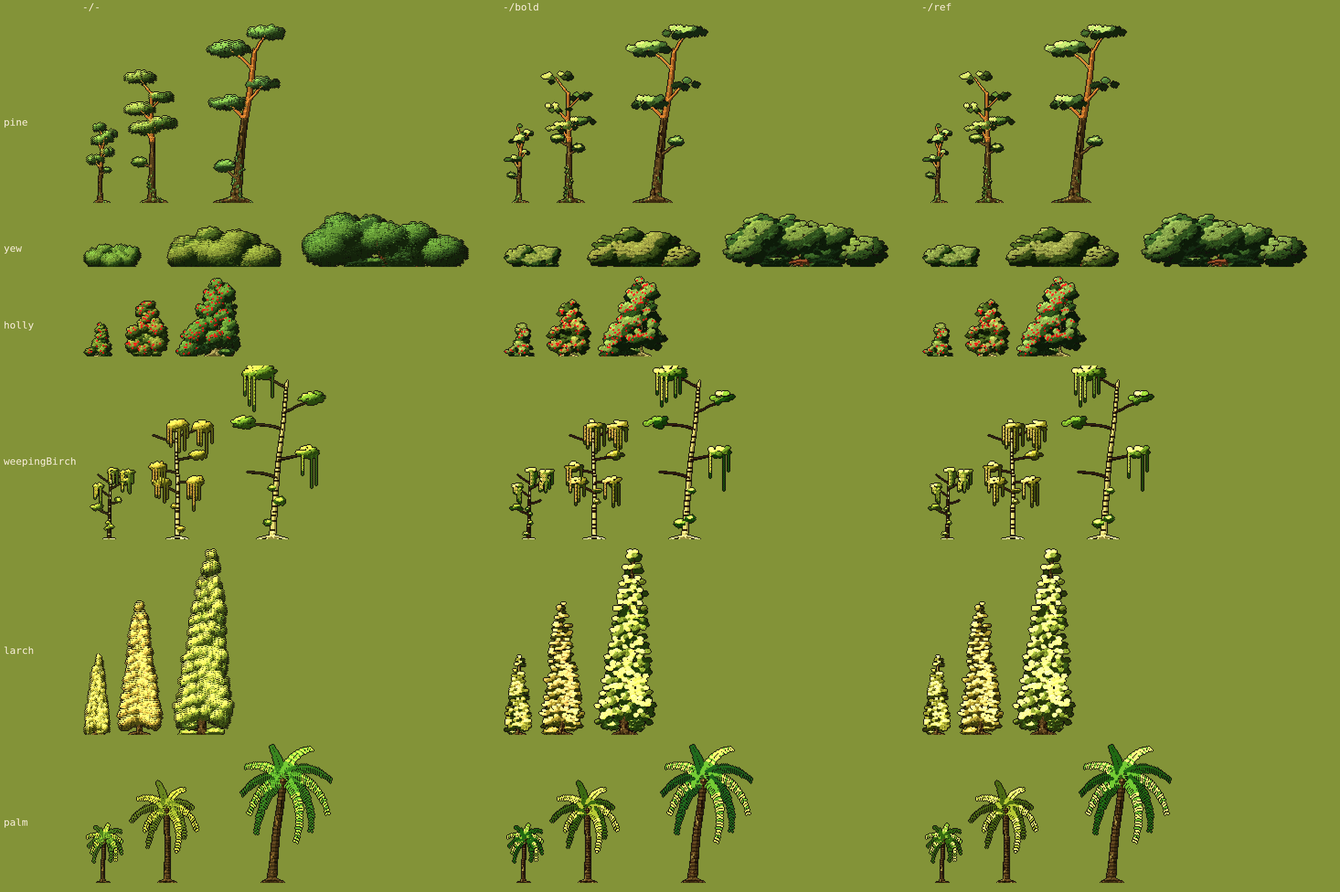
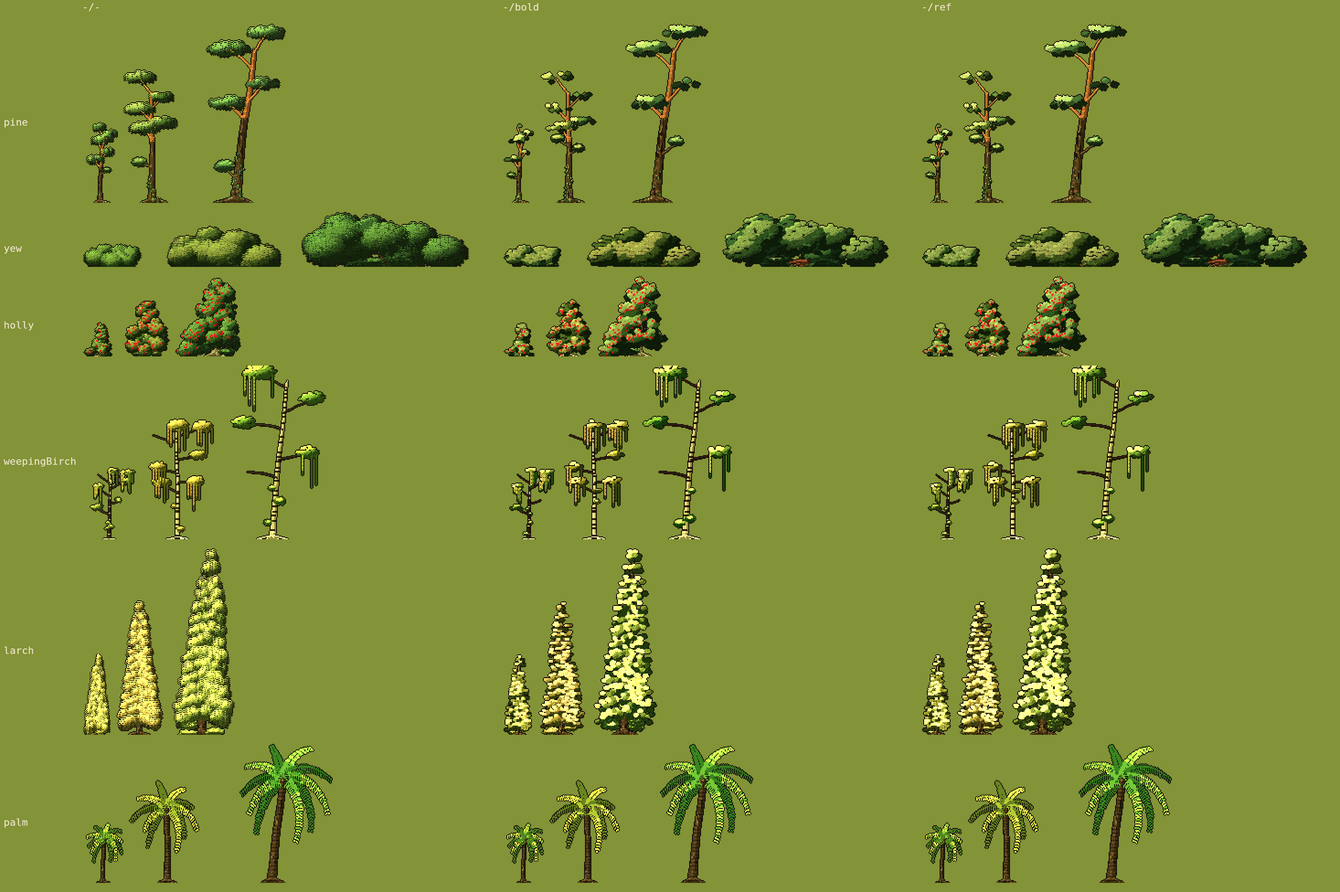
Trees: the shared pixel-art style switch (#127's style.artStyle), not their own
Merge claude/prototype (#127's art/stylise.js and ?style=). The blob trees stylise themselves under style.artStyle bold or ref (their tones, bigger stamps, clusters) and mark their sprites stylised, so bake's post-pass leaves them be; the broadleaf trees take the post-pass. Effects for the new legendLob and legendBeam attacks (the art check failed without them on claude/prototype too).

Claude-Session: https://claude.ai/code/session_01FVGKHvaavDn5xGsWtRTBaz

diff --git a/tools/art-lab/dist/witch-art-lab.html b/tools/art-lab/dist/witch-art-lab.html
@@ -728,7 +728,7 @@ class Sprite {
 // NF the same for the sprite mirrored (facing left).
 function bake(sp, colours, st, outlineMode = st.outline, makeCanvas = defaultCanvas) {
   const { w, h } = sp, mk = () => makeCanvas(w, h), artStyle = st?.artStyle; // artStyle: a pixel-art style (art/stylise.js: the game's ?style=), drawing its own outline
-  if (artStyle === "bold" || artStyle === "ref") outlineMode = "none";
+  if ((artStyle === "bold" || artStyle === "ref") && !sp.stylised) outlineMode = "none";
   const A = mk(), N = mk(), NF = mk(), a = A.getContext("2d").createImageData(w, h), n = N.getContext("2d").createImageData(w, h), nf = NF.getContext("2d").createImageData(w, h);
   const outline = outlineMode === "none" ? null : outlineMode === "dark" ? [22, 18, 30] : "tint";
   for (let y = 0; y < h; y++) for (let x = 0; x < w; x++) {
@@ -749,7 +749,7 @@ function bake(sp, colours, st, outlineMode = st.outline, makeCanvas = defaultCan
     n.data.set([nx * 127 + 128, ny * 127 + 128, nz * 255, 255], o);
     nf.data.set([-nx * 127 + 128, ny * 127 + 128, nz * 255, 255], o);
   }
-  if (artStyle === "bold" || artStyle === "ref") stylisePixels(a.data, n.data, nf.data, w, h, artStyle);
+  if ((artStyle === "bold" || artStyle === "ref") && !sp.stylised) stylisePixels(a.data, n.data, nf.data, w, h, artStyle); // (a sprite its generator drew stylised already, the blob trees, keeps its own tones)
   A.getContext("2d").putImageData(a, 0, 0); N.getContext("2d").putImageData(n, 0, 0); NF.getContext("2d").putImageData(nf, 0, 0);
   return { A, N, NF, w, h };
 }
@@ -999,7 +999,7 @@ function frondCrown(sp, r, st, s, k, top, C, gy) {
       if (j % 2 === 0 && f > .08) { const l = Math.round((1 - f * .7) * (F.leaflet ?? 4) * s), nx = -Math.sin(ang), ny = Math.cos(ang); for (const sd of [-1, 1]) for (let q = 1; q <= l; q++) { put(p[0] + nx * q * sd, p[1] + ny * q * sd + q * .35, m, i + 1); put(p[0] + nx * q * sd, p[1] + ny * q * sd + q * .35 + 1, back ? mats[0] : m, i + 1); } }
     }
   }
-  if (st.stylise) clusterLeaves(sp);
+  if (st.artStyle === "bold" || st.artStyle === "ref") { clusterLeaves(sp); sp.stylised = st.artStyle; }
   return trim(sp, sp.w / 2, Math.min(gy - 6 * s, top[1] + 6 * s));
 }
 
@@ -1054,8 +1054,8 @@ function blobTree(r, st, s, P) {
   const list = C.fill ? fillBlobs(r, s, k, top, C, gy, trunks0[0]) : blobs.map(t => { const big = t === top ? (C.topBig || 1) : 1, rx = uni(r, ...C.r) * s * (C.spreadK === false ? 1 : .75 + .25 * k) * big; return { c: add(t, [uni(r, -2, 2) * s, -(C.lift ?? 3) * s]), rx, ry: rx * (C.flat ?? .8), back: r() < (C.back ?? .3) }; });
   if (C.twigs) byAng.forEach((t, j) => { if (!used.has(j) && t !== top) { const rx = C.r[0] * s * C.twigs; list.push({ c: add(t, [0, -s]), rx, ry: rx * (C.flat ?? .8), back: true }); } });
   list.sort((a, b) => (a.back !== b.back ? (a.back ? -1 : 1) : a.c[1] - b.c[1])); // the back blobs first, then top down: the lower ones in front
-  // stylised (st.stylise, docs/ART-GUIDE.md section 0): bigger, fewer stamps, each one tone, lit as one big shape with no jitter, then clustered
-  const sty = !!st.stylise, ss = Math.max(sty ? 2.5 : 1.5, (C.stampSize || 3) * s * (sty ? 1.5 : 1)), kind = sty && C.stamp === "needle" ? "leaf" : C.stamp || "leaf", [t1, t2] = C.tones || [.12, .55], mats = (C.mats || ["LEAF3", "LEAF", "LEAF2"]).map(matOf);
+  // stylised (st.artStyle bold or ref, the game's ?style=; docs/ART-GUIDE.md section 0): bigger, fewer stamps, each one tone, lit as one big shape with no jitter, then clustered
+  const sty = st.artStyle === "bold" || st.artStyle === "ref", ss = Math.max(sty ? 2.5 : 1.5, (C.stampSize || 3) * s * (sty ? 1.5 : 1)), kind = sty && C.stamp === "needle" ? "leaf" : C.stamp || "leaf", [t1, t2] = C.tones || [.12, .55], mats = (C.mats || ["LEAF3", "LEAF", "LEAF2"]).map(matOf);
   const seed = (r() * 1e4) | 0, cap = !!C.cap, blobOf = sp.blob = new Uint8Array(W * H); // which blob each pixel is part of (the pixel wind moves each whole)
   const put = (x, y, mat, nx, ny, nz, b) => { x = Math.floor(x); y = Math.floor(y); if (!sp.inb(x, y)) return; sp.px(x, y, mat, nx, ny, nz); blobOf[y * W + x] = b; };
   for (const [bi, B] of list.entries()) {
@@ -1085,7 +1085,7 @@ function blobTree(r, st, s, P) {
       }
     }
   }
-  if (sty) clusterLeaves(sp); // no lone leaf pixels: each tone in clusters
+  if (sty) { clusterLeaves(sp); sp.stylised = st.artStyle; } // no lone leaf pixels: each tone in clusters; bake leaves its tones be
   // dots (blossom, fruit, glowing spots) on the leaves, the lit side more; glints on the lit leaves
   let cx0 = W, cx1 = 0, cy0 = H, cy1 = 0;
   for (const { c, rx, ry } of list) { cx0 = Math.min(cx0, c[0] - rx - ss); cx1 = Math.max(cx1, c[0] + rx + ss); cy0 = Math.min(cy0, c[1] - ry - ss); cy1 = Math.max(cy1, c[1] + ry + ss); }
@@ -1221,6 +1221,7 @@ function trim(sp, bx, crownY) {
     out.m[j] = sp.m[i]; out.g[j] = sp.g[i]; out.n[j * 3] = sp.n[i * 3]; out.n[j * 3 + 1] = sp.n[i * 3 + 1]; out.n[j * 3 + 2] = sp.n[i * 3 + 2];
     if (sp.blob) (out.blob || (out.blob = new Uint8Array(w * h)))[j] = sp.blob[i]; // the genome generator's blobs, for the pixel wind
   }
+  if (sp.stylised) out.stylised = sp.stylised;
   return { sp: out, crownY: crownY - ny0 };
 }
 const spread = st => (st.crownWidth || 3) / 3;
@@ -1364,7 +1365,7 @@ const TREE_SPECIES = {};
 for (const [id, g] of Object.entries(PLANT_GENOMES)) {
   if (g.species === false) continue; // only a TREE_TYPES kind (the tree fern), never an area's species
   const bare = genomeTree(id, g);
-  TREE_SPECIES[id] = { fn: (r, st, s) => lowLife(bare(r, st, s), r, st, s, g.low || {}), bare, name: g.name, grow: g.grow, ...g.colour }; // every species' trees carry their life below the crown; bare draws without it
+  TREE_SPECIES[id] = { fn: (r, st, s) => lowLife(bare(r, st, s), r, st, s, g.low || {}), bare, name: g.name, grow: g.grow, blob: g.generator === "blob", ...g.colour }; // every species' trees carry their life below the crown; bare draws without it
 }
 // The species a flora preview names (the game's ?flora=, the lab): "new" the genome generator's species, "fantasy" its fantasy
 // ones, "all" every species, or a comma list of ids; unknown ids are left out.
@@ -1414,9 +1415,9 @@ function treeColours(r, st, type) {
     [M.TRUNK]: hsv2rgb(st.trunkHue, .45 * st.sat, .34), [M.BARKD]: hsv2rgb(st.trunkHue + .03, .5 * st.sat, .17), [M.BARKL]: hsv2rgb(st.trunkHue - .01, .38 * st.sat, .5), [M.BARK2]: [222, 220, 212],
     [M.LEAF]: hsv2rgb(h, Math.min(1, .62 * st.sat * sa), Math.min(1, .58 * va)), [M.LEAF2]: hsv2rgb(h - .05, Math.min(1, .55 * st.sat * sa), Math.min(1, .8 * va)), [M.LEAF3]: hsv2rgb(h + .03, Math.min(1, .66 * st.sat * sa), .38 * va), [M.WEB]: [225, 225, 232],
   };
-  if (st.stylise) { // the pixel-art ramp (docs/ART-GUIDE.md section 0): 3 hue-shifted tones per material, the shadow deeper, more saturated and
+  if (st.artStyle && S?.blob) { // the pixel-art ramp (the blob generator's trees; bake's post-pass does the rest) (docs/ART-GUIDE.md section 0): 3 hue-shifted tones per material, the shadow deeper, more saturated and
     // towards blue-violet, the light pale and towards cream; "ref" (Ed's reference, rung 6) keeps one tone family, "bold" (rung 3/4) shifts further
-    const ref = st.stylise === "ref", ls = Math.min(1, .62 * st.sat * sa), lv = Math.min(1, .58 * va);
+    const ref = st.artStyle === "ref", ls = Math.min(1, .62 * st.sat * sa), lv = Math.min(1, .58 * va);
     c[M.LEAF3] = hsv2rgb(h + (ref ? .035 : .07), Math.min(1, ls * 1.25), lv * .52);
     c[M.LEAF2] = hsv2rgb(h - (ref ? .045 : .08), ls * (ref ? .5 : .62), Math.min(1, lv * 1.5));
     c[M.BARKD] = hsv2rgb(st.trunkHue - (ref ? .02 : .04), Math.min(1, .6 * st.sat), .15); // bark's shadow towards red-brown
@@ -1439,6 +1440,7 @@ function splitTree(t) { // bottom = wood below the crown line and the life on it
     dst.put(x, y, m, sp.n[i * 3], sp.n[i * 3 + 1], sp.n[i * 3 + 2]);
     if (sp.blob?.[i]) (dst.blob || (dst.blob = new Uint8Array(sp.w * sp.h)))[i] = sp.blob[i];
   }
+  if (sp.stylised) top.stylised = bot.stylised = sp.stylised; // drawn stylised already: bake leaves it be
   return { top, bot };
 }
 
@@ -5289,6 +5291,9 @@ const ATTACK_EFFECTS = {
   // a lunging swipe that knocks back (the claws' melee), the big one harder
   swipe: { windup: "windupFlash", telegraph: ["lineStart", "line", "lineEnd"], hit: "hitSpark", status: ["knockback"] },
   bigswipe: { windup: "windupFlash", telegraph: ["lineStart", "line", "lineEnd"], hit: "hitSparkBig", status: ["knockback", "dust"] },
+  // a woken legend's ranged attacks: a great lob onto a target circle, a long sweeping beam
+  legendLob: { windup: "windupFlash", telegraph: ["targetCircle"], projectile: "lobSeed", shadow: "lobShadow", hit: "hitSparkBig" },
+  legendBeam: { windup: "windupFlash", telegraph: ["lineStart", "line", "lineEnd"], beam: ["beamLongStart", "beamLongLoop", "beamLongEnd"], hit: "hitSpark" },
   spit: { windup: "windupFlash", telegraph: ["lineStart", "line", "lineEnd"], projectile: "spit", hit: "hitSpark" },
   longspit: { windup: "windupFlash", telegraph: ["lineStart", "line", "lineEnd"], projectile: "feather", hit: "hitSpark" },
   barb: { windup: "windupFlash", telegraph: ["lineStart", "line", "lineEnd"], projectile: "barb", hit: "hitSpark", status: ["slowRing", "slowMark"] },

diff --git a/art/trees.js b/art/trees.js
@@ -99,6 +99,7 @@ export function trim(sp, bx, crownY) {
     out.m[j] = sp.m[i]; out.g[j] = sp.g[i]; out.n[j * 3] = sp.n[i * 3]; out.n[j * 3 + 1] = sp.n[i * 3 + 1]; out.n[j * 3 + 2] = sp.n[i * 3 + 2];
     if (sp.blob) (out.blob || (out.blob = new Uint8Array(w * h)))[j] = sp.blob[i]; // the genome generator's blobs, for the pixel wind
   }
+  if (sp.stylised) out.stylised = sp.stylised;
   return { sp: out, crownY: crownY - ny0 };
 }
 export const spread = st => (st.crownWidth || 3) / 3;
@@ -242,7 +243,7 @@ export const TREE_SPECIES = {};
 for (const [id, g] of Object.entries(PLANT_GENOMES)) {
   if (g.species === false) continue; // only a TREE_TYPES kind (the tree fern), never an area's species
   const bare = genomeTree(id, g);
-  TREE_SPECIES[id] = { fn: (r, st, s) => lowLife(bare(r, st, s), r, st, s, g.low || {}), bare, name: g.name, grow: g.grow, ...g.colour }; // every species' trees carry their life below the crown; bare draws without it
+  TREE_SPECIES[id] = { fn: (r, st, s) => lowLife(bare(r, st, s), r, st, s, g.low || {}), bare, name: g.name, grow: g.grow, blob: g.generator === "blob", ...g.colour }; // every species' trees carry their life below the crown; bare draws without it
 }
 // The species a flora preview names (the game's ?flora=, the lab): "new" the genome generator's species, "fantasy" its fantasy
 // ones, "all" every species, or a comma list of ids; unknown ids are left out.
@@ -292,9 +293,9 @@ export function treeColours(r, st, type) {
     [M.TRUNK]: hsv2rgb(st.trunkHue, .45 * st.sat, .34), [M.BARKD]: hsv2rgb(st.trunkHue + .03, .5 * st.sat, .17), [M.BARKL]: hsv2rgb(st.trunkHue - .01, .38 * st.sat, .5), [M.BARK2]: [222, 220, 212],
     [M.LEAF]: hsv2rgb(h, Math.min(1, .62 * st.sat * sa), Math.min(1, .58 * va)), [M.LEAF2]: hsv2rgb(h - .05, Math.min(1, .55 * st.sat * sa), Math.min(1, .8 * va)), [M.LEAF3]: hsv2rgb(h + .03, Math.min(1, .66 * st.sat * sa), .38 * va), [M.WEB]: [225, 225, 232],
   };
-  if (st.stylise) { // the pixel-art ramp (docs/ART-GUIDE.md section 0): 3 hue-shifted tones per material, the shadow deeper, more saturated and
+  if (st.artStyle && S?.blob) { // the pixel-art ramp (the blob generator's trees; bake's post-pass does the rest) (docs/ART-GUIDE.md section 0): 3 hue-shifted tones per material, the shadow deeper, more saturated and
     // towards blue-violet, the light pale and towards cream; "ref" (Ed's reference, rung 6) keeps one tone family, "bold" (rung 3/4) shifts further
-    const ref = st.stylise === "ref", ls = Math.min(1, .62 * st.sat * sa), lv = Math.min(1, .58 * va);
+    const ref = st.artStyle === "ref", ls = Math.min(1, .62 * st.sat * sa), lv = Math.min(1, .58 * va);
     c[M.LEAF3] = hsv2rgb(h + (ref ? .035 : .07), Math.min(1, ls * 1.25), lv * .52);
     c[M.LEAF2] = hsv2rgb(h - (ref ? .045 : .08), ls * (ref ? .5 : .62), Math.min(1, lv * 1.5));
     c[M.BARKD] = hsv2rgb(st.trunkHue - (ref ? .02 : .04), Math.min(1, .6 * st.sat), .15); // bark's shadow towards red-brown
@@ -317,6 +318,7 @@ export function splitTree(t) { // bottom = wood below the crown line and the lif
     dst.put(x, y, m, sp.n[i * 3], sp.n[i * 3 + 1], sp.n[i * 3 + 2]);
     if (sp.blob?.[i]) (dst.blob || (dst.blob = new Uint8Array(sp.w * sp.h)))[i] = sp.blob[i];
   }
+  if (sp.stylised) top.stylised = bot.stylised = sp.stylised; // drawn stylised already: bake leaves it be
   return { top, bot };
 }
 

diff --git a/art/flora/blob.js b/art/flora/blob.js
@@ -85,7 +85,7 @@ function frondCrown(sp, r, st, s, k, top, C, gy) {
       if (j % 2 === 0 && f > .08) { const l = Math.round((1 - f * .7) * (F.leaflet ?? 4) * s), nx = -Math.sin(ang), ny = Math.cos(ang); for (const sd of [-1, 1]) for (let q = 1; q <= l; q++) { put(p[0] + nx * q * sd, p[1] + ny * q * sd + q * .35, m, i + 1); put(p[0] + nx * q * sd, p[1] + ny * q * sd + q * .35 + 1, back ? mats[0] : m, i + 1); } }
     }
   }
-  if (st.stylise) clusterLeaves(sp);
+  if (st.artStyle === "bold" || st.artStyle === "ref") { clusterLeaves(sp); sp.stylised = st.artStyle; }
   return trim(sp, sp.w / 2, Math.min(gy - 6 * s, top[1] + 6 * s));
 }
 
@@ -140,8 +140,8 @@ export function blobTree(r, st, s, P) {
   const list = C.fill ? fillBlobs(r, s, k, top, C, gy, trunks0[0]) : blobs.map(t => { const big = t === top ? (C.topBig || 1) : 1, rx = uni(r, ...C.r) * s * (C.spreadK === false ? 1 : .75 + .25 * k) * big; return { c: add(t, [uni(r, -2, 2) * s, -(C.lift ?? 3) * s]), rx, ry: rx * (C.flat ?? .8), back: r() < (C.back ?? .3) }; });
   if (C.twigs) byAng.forEach((t, j) => { if (!used.has(j) && t !== top) { const rx = C.r[0] * s * C.twigs; list.push({ c: add(t, [0, -s]), rx, ry: rx * (C.flat ?? .8), back: true }); } });
   list.sort((a, b) => (a.back !== b.back ? (a.back ? -1 : 1) : a.c[1] - b.c[1])); // the back blobs first, then top down: the lower ones in front
-  // stylised (st.stylise, docs/ART-GUIDE.md section 0): bigger, fewer stamps, each one tone, lit as one big shape with no jitter, then clustered
-  const sty = !!st.stylise, ss = Math.max(sty ? 2.5 : 1.5, (C.stampSize || 3) * s * (sty ? 1.5 : 1)), kind = sty && C.stamp === "needle" ? "leaf" : C.stamp || "leaf", [t1, t2] = C.tones || [.12, .55], mats = (C.mats || ["LEAF3", "LEAF", "LEAF2"]).map(matOf);
+  // stylised (st.artStyle bold or ref, the game's ?style=; docs/ART-GUIDE.md section 0): bigger, fewer stamps, each one tone, lit as one big shape with no jitter, then clustered
+  const sty = st.artStyle === "bold" || st.artStyle === "ref", ss = Math.max(sty ? 2.5 : 1.5, (C.stampSize || 3) * s * (sty ? 1.5 : 1)), kind = sty && C.stamp === "needle" ? "leaf" : C.stamp || "leaf", [t1, t2] = C.tones || [.12, .55], mats = (C.mats || ["LEAF3", "LEAF", "LEAF2"]).map(matOf);
   const seed = (r() * 1e4) | 0, cap = !!C.cap, blobOf = sp.blob = new Uint8Array(W * H); // which blob each pixel is part of (the pixel wind moves each whole)
   const put = (x, y, mat, nx, ny, nz, b) => { x = Math.floor(x); y = Math.floor(y); if (!sp.inb(x, y)) return; sp.px(x, y, mat, nx, ny, nz); blobOf[y * W + x] = b; };
   for (const [bi, B] of list.entries()) {
@@ -171,7 +171,7 @@ export function blobTree(r, st, s, P) {
       }
     }
   }
-  if (sty) clusterLeaves(sp); // no lone leaf pixels: each tone in clusters
+  if (sty) { clusterLeaves(sp); sp.stylised = st.artStyle; } // no lone leaf pixels: each tone in clusters; bake leaves its tones be
   // dots (blossom, fruit, glowing spots) on the leaves, the lit side more; glints on the lit leaves
   let cx0 = W, cx1 = 0, cy0 = H, cy1 = 0;
   for (const { c, rx, ry } of list) { cx0 = Math.min(cx0, c[0] - rx - ss); cx1 = Math.max(cx1, c[0] + rx + ss); cy0 = Math.min(cy0, c[1] - ry - ss); cy1 = Math.max(cy1, c[1] + ry + ss); }

diff --git a/art/core.js b/art/core.js
@@ -306,7 +306,7 @@ export class Sprite {
 // NF the same for the sprite mirrored (facing left).
 export function bake(sp, colours, st, outlineMode = st.outline, makeCanvas = defaultCanvas) {
   const { w, h } = sp, mk = () => makeCanvas(w, h), artStyle = st?.artStyle; // artStyle: a pixel-art style (art/stylise.js: the game's ?style=), drawing its own outline
-  if (artStyle === "bold" || artStyle === "ref") outlineMode = "none";
+  if ((artStyle === "bold" || artStyle === "ref") && !sp.stylised) outlineMode = "none";
   const A = mk(), N = mk(), NF = mk(), a = A.getContext("2d").createImageData(w, h), n = N.getContext("2d").createImageData(w, h), nf = NF.getContext("2d").createImageData(w, h);
   const outline = outlineMode === "none" ? null : outlineMode === "dark" ? [22, 18, 30] : "tint";
   for (let y = 0; y < h; y++) for (let x = 0; x < w; x++) {
@@ -327,7 +327,7 @@ export function bake(sp, colours, st, outlineMode = st.outline, makeCanvas = def
     n.data.set([nx * 127 + 128, ny * 127 + 128, nz * 255, 255], o);
     nf.data.set([-nx * 127 + 128, ny * 127 + 128, nz * 255, 255], o);
   }
-  if (artStyle === "bold" || artStyle === "ref") stylisePixels(a.data, n.data, nf.data, w, h, artStyle);
+  if ((artStyle === "bold" || artStyle === "ref") && !sp.stylised) stylisePixels(a.data, n.data, nf.data, w, h, artStyle); // (a sprite its generator drew stylised already, the blob trees, keeps its own tones)
   A.getContext("2d").putImageData(a, 0, 0); N.getContext("2d").putImageData(n, 0, 0); NF.getContext("2d").putImageData(nf, 0, 0);
   return { A, N, NF, w, h };
 }

diff --git a/art/effects.js b/art/effects.js
@@ -94,6 +94,9 @@ export const ATTACK_EFFECTS = {
   // a lunging swipe that knocks back (the claws' melee), the big one harder
   swipe: { windup: "windupFlash", telegraph: ["lineStart", "line", "lineEnd"], hit: "hitSpark", status: ["knockback"] },
   bigswipe: { windup: "windupFlash", telegraph: ["lineStart", "line", "lineEnd"], hit: "hitSparkBig", status: ["knockback", "dust"] },
+  // a woken legend's ranged attacks: a great lob onto a target circle, a long sweeping beam
+  legendLob: { windup: "windupFlash", telegraph: ["targetCircle"], projectile: "lobSeed", shadow: "lobShadow", hit: "hitSparkBig" },
+  legendBeam: { windup: "windupFlash", telegraph: ["lineStart", "line", "lineEnd"], beam: ["beamLongStart", "beamLongLoop", "beamLongEnd"], hit: "hitSpark" },
   spit: { windup: "windupFlash", telegraph: ["lineStart", "line", "lineEnd"], projectile: "spit", hit: "hitSpark" },
   longspit: { windup: "windupFlash", telegraph: ["lineStart", "line", "lineEnd"], projectile: "feather", hit: "hitSpark" },
   barb: { windup: "windupFlash", telegraph: ["lineStart", "line", "lineEnd"], projectile: "barb", hit: "hitSpark", status: ["slowRing", "slowMark"] },

diff --git a/src/main.ts b/src/main.ts
@@ -185,7 +185,6 @@ const canvas = document.getElementById("game") as HTMLCanvasElement;
 const style = loadStyle();
 { const artStyle = params.get("style"); if (artStyle === "bold" || artStyle === "ref") style.artStyle = artStyle; } // ?style=now|bold|ref: a pixel-art style (art/stylise.js) baked into every sprite, carried to the art worker in the style
 if (params.get("flora")) style.flora = params.get("flora"); // ?flora=new|fantasy|all|<ids>: every wooded area grows these tree species (art/flora), carried to the art worker in the style
-if (params.get("style") === "bold" || params.get("style") === "ref") style.stylise = params.get("style"); // ?style=bold|ref: the pixel-art stylisation (docs/ART-GUIDE.md section 0; bold: hue-shifted 3-tone ramps, ref: Ed's reference look), so far in the trees: carried to the art worker in the style
 /** Load timings (ms since the page started): the view built (the page's own sprites drawn), ready to play. */
 const loadTimes = { viewStart: performance.now(), view: 0, ready: 0 };
 const view = new View(canvas, game, {

diff --git a/CLAUDE.md b/CLAUDE.md
@@ -81,7 +81,7 @@ Literal, stable names for the parts of the game, as Ed and the builders agree th
 - **Tall pieces**: the sparse, tall things in the open areas without trees (`art/tall.js`): snags in the log pile, cairns and standing stones on the moor, pillars and a tall cairn at the stone shrine, rock spires and a stalagmite in the ravine; `big` entries flagged `sparse` (their share of the area's big objects).
 - **Tree species**: the kinds of tree in `art/trees.js` (`TREE_SPECIES`): the original six and fifteen UK species (oak, beech, ash, lime, sycamore, horse chestnut, rowan, alder, Scots pine, yew, hawthorn, holly, hazel, weeping birch, larch); each area names a main species and often a minor one.
 - **Area flora**: each wooded area type's trees (`AREA_FLORA` in `art/flora/areas.js`): 3 to 6 species with their shares, its main kind first, and its palette (leaf saturation and brightness, times the species' own; the hue is the area's `leaf`); `areaTreeVariants` deals the species into the area's ten tree variants by share (`floraSlots`), each with the area's own tree character. The fantasy species grow only as a minority where magic suits (glowcap in the hazel rings, vinewood in the garden and the holly thicket, the crystal-leaf tree at the cave mouth).
-- **Plant genome**: a tree or bush species as data (`PLANT_GENOMES`, `BUSH_GENOMES` in `art/flora/genomes.js`): its form, the generator that grows it and its params, the style rules it bends, its life below the crown, its colours and its height-class growth. `TREE_SPECIES` and `bush` are grown from them. The **genome generator** (`art/flora/blob.js`, generator `"blob"`) grows a tree from levels of branches (Weber–Penn style) under a crown of 3 to 9 lit **blobs** filled with **leaf stamps** (t3ssel8r style); it draws the ten newer species, three of them fantasy (glowcap, crystal-leaf tree, vinewood), and since #119 the twelve that had bespoke generators (broad, fir, willow, birch, tree fern, field maple, alder, pine, yew, holly, weeping birch, larch), with crowns filled through an envelope (`crown.fill`: tiers, cone, column, dome; `crownLine`), curtains, trunk bands, a pine's orange upper trunk, frond scars and fronds. Only `broadleaf` (nine species) is still its own generator. **Stylisation** (`style.stylise`, `?style=bold|ref`; Ed: "more pixel-art stylised", docs/ART-GUIDE.md section 0): the trees' leaves and bark in 3 hue-shifted tones (shadow towards blue-violet or red-brown, light towards cream; `ref` one tone family), and the blob crowns in bigger, fewer stamps lit with no jitter and clustered (`clusterLeaves`: no lone leaf pixel); off by default. `node tools/flora/species-sheet.mjs <png> <species|all> <set/stylise,...>` draws species side by side. `?flora=new|fantasy|all|<ids>` grows those species in every wooded area (carried to the art worker in the style); the lab's Flora panel shows them.
+- **Plant genome**: a tree or bush species as data (`PLANT_GENOMES`, `BUSH_GENOMES` in `art/flora/genomes.js`): its form, the generator that grows it and its params, the style rules it bends, its life below the crown, its colours and its height-class growth. `TREE_SPECIES` and `bush` are grown from them. The **genome generator** (`art/flora/blob.js`, generator `"blob"`) grows a tree from levels of branches (Weber–Penn style) under a crown of 3 to 9 lit **blobs** filled with **leaf stamps** (t3ssel8r style); it draws the ten newer species, three of them fantasy (glowcap, crystal-leaf tree, vinewood), and since #119 the twelve that had bespoke generators (broad, fir, willow, birch, tree fern, field maple, alder, pine, yew, holly, weeping birch, larch), with crowns filled through an envelope (`crown.fill`: tiers, cone, column, dome; `crownLine`), curtains, trunk bands, a pine's orange upper trunk, frond scars and fronds. Only `broadleaf` (nine species) is still its own generator. Under the pixel-art styles (`style.artStyle`, the game's `?style=bold|ref`, art/stylise.js) the blob trees stylise themselves: leaves and bark in 3 hue-shifted tones (shadow towards blue-violet or red-brown, light towards cream; `ref` one tone family), the crowns in bigger, fewer stamps lit with no jitter and clustered (`clusterLeaves`: no lone leaf pixel), and their sprites marked `stylised` so bake's post-pass leaves their tones be. `node tools/flora/species-sheet.mjs <png> <species|all> <set/stylise,...>` draws species side by side. `?flora=new|fantasy|all|<ids>` grows those species in every wooded area (carried to the art worker in the style); the lab's Flora panel shows them.
 - **Sleeping legend**: an area's legend of its species as it lies asleep for centuries (`art/legends.js`, `legendForm(id, st, { frame, facing })`): half sunk in its area's earth, head down, eyes shut, its glow gone to stone and old wood, mossed and grown over so it passes for a boulder, log or mound, in 2 slow breathing frames at the legend's scale, `origin` the ground under its middle. No waking sequence or awake redraw yet (Ed, 2026-10-04: "just the sleeping form"). Batch 1: bat, marten, elk, stoat, owl, snail; batch 2: wolf, fox, badger, boar, stag, hare, bear; batch 3: lynx, otter, beaver, ram, squirrel, dormouse, salamander; batch 4: toad, raven, mole, hedgehog, woodlouse; batch 5: snake, moth, glow-worm, spider, stag beetle (`LEGEND_POSES`): all 30.
 - **Art style / art pixel**: the pixel-art treatment baked into every sprite (`art/stylise.js`, applied in `bake` when the style's `artStyle` is set): `?style=now|bold|ref` (now: as before; bold: 3 hue-shifted tones per material, clusters, a selective outline; ref: Ed's boar reference, one tone family, a strong near-black outline with interior lines) and `?px=3|4|5` (the tuning's `pixelSize` for one load). Ed picks between bold and ref at 4 or 5 in playtesting (docs/ART-GUIDE.md section 0); the generators' own version will reuse these switches. `node tools/art-style/capture.cjs <dir> [style/px,...]` saves frame strips of each in play.
 - **Genome**: a species as data (`art/genome/species.js`, #79): its template, builder, palette, proportions (`body`, `head`), parts (`parts`: ears, tail, feet, horns, antlers, tusks) and markings (`coat`); `speciesOf` makes the builders' species object from it, `genomeHash` its bake-cache key. Edit the record, not the builder, to change a species.
